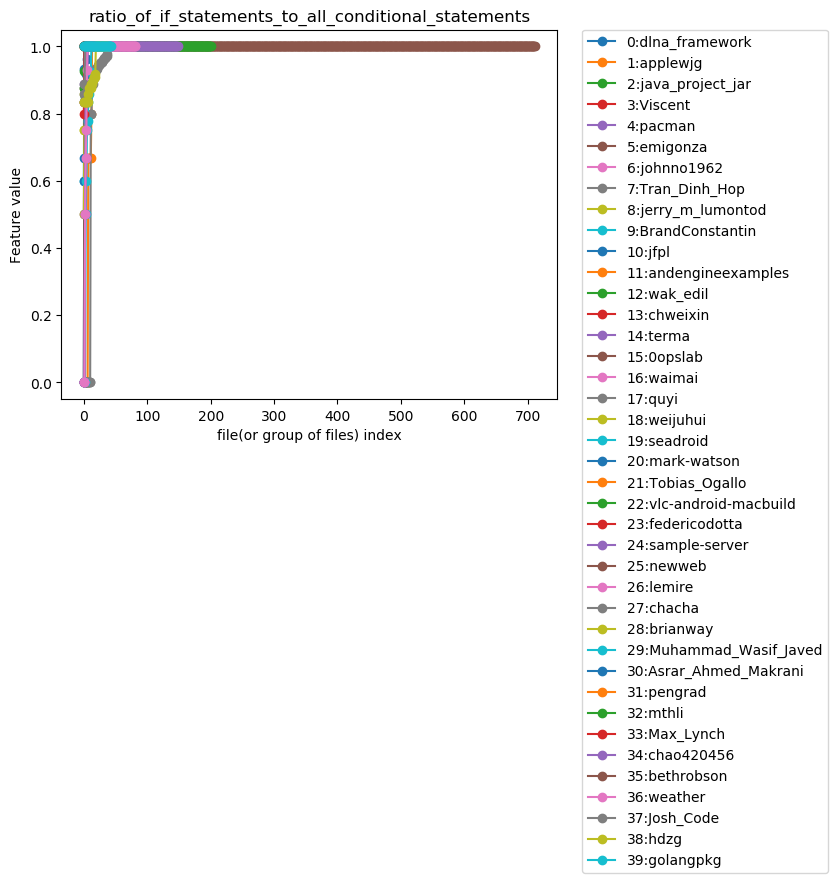
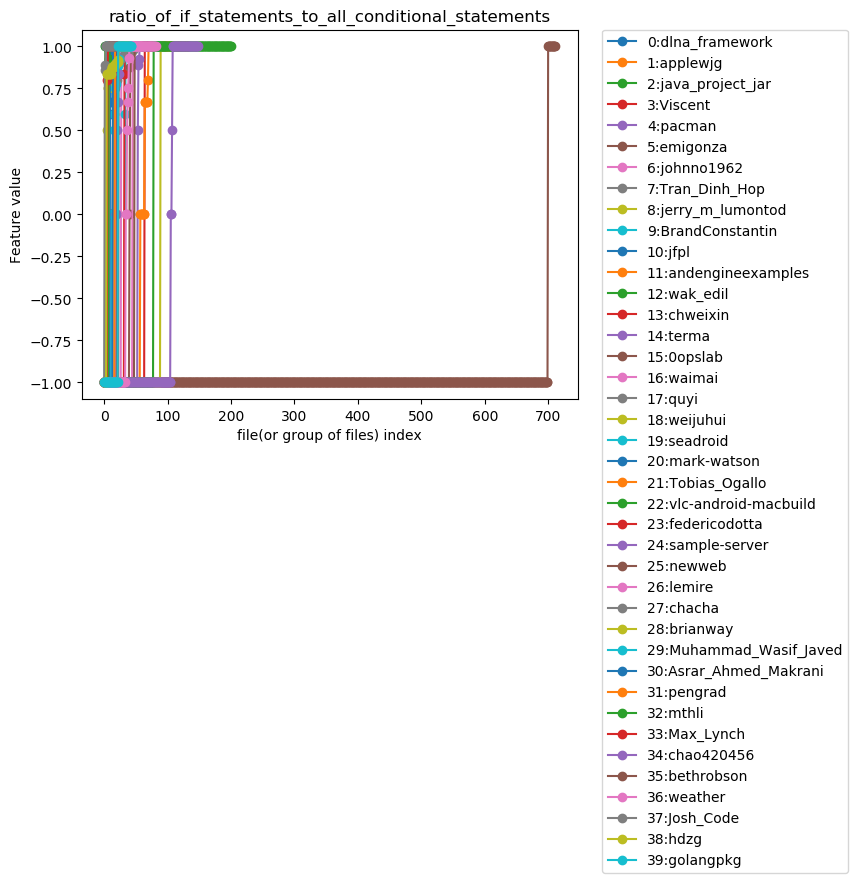
a / 0 = mean, mean only for train is 72%.

Changed region(s): [[0.0, 0.0, 0.963, 1.0]]

diff --git a/psob_authorship/experiment/early_stopping.py b/psob_authorship/experiment/early_stopping.py
@@ -1,4 +1,6 @@
+import datetime
 import logging
+import os
 from typing import Tuple, List
 
 import torch
@@ -10,38 +12,51 @@ from psob_authorship.features.PsobDataset import PsobDataset
 from psob_authorship.features.utils import configure_logger_by_default
 from psob_authorship.model.Model import Model
 
-LABELS_FEARURES_COMMON_NAME = "../calculated_features/without_5"
-INPUT_FEATURES = torch.load(LABELS_FEARURES_COMMON_NAME + "_features.tr")
-INPUT_LABELS = torch.load(LABELS_FEARURES_COMMON_NAME + "_labels.tr")
-EPOCHS = 5000
-BATCH_SIZE = 32
+CONFIG = {
+    'experiment_name': os.path.basename(__file__).split('.')[0],
+    'experiment_notes': "change: a / 0 = 1 with 700 early stopping rounds",
+    'number_of_authors': 40,
+    'labels_features_common_name': "../calculated_features/extracted_for_each_file",
+    'metrics': [0, 1, 2, 3, 4, 5, 6, 7, 8, 9, 10, 11, 12, 13, 14, 15, 16, 17, 18],
+    'epochs': 5000,
+    'batch_size': 32,
+    'lr': 0.01,
+    'cv': StratifiedKFold(n_splits=10, random_state=0, shuffle=True),
+    'scoring': "accuracy",
+    'criterion': nn.CrossEntropyLoss,
+    'optimizer': optim.SGD,
+    'momentum': 0.9,
+    'shuffle': True,
+    'timestamp': datetime.datetime.now()
+}
+INPUT_FEATURES = torch.load(CONFIG['labels_features_common_name'] + "_features.tr").numpy()
+INPUT_LABELS = torch.load(CONFIG['labels_features_common_name'] + "_labels.tr").numpy()
 
 
 def get_test_accuracy_by_epoch() -> Tuple[List[int], List[float], List[int]]:
     logger = logging.getLogger('early_stopping')
     configure_logger_by_default(logger)
     logger.info("START get_test_accuracy_by_epoch")
-    skf = StratifiedKFold(n_splits=10, shuffle=True, random_state=0)
-    train_index, test_index = next(skf.split(INPUT_FEATURES, INPUT_LABELS))
+    train_index, test_index = next(CONFIG['cv'].split(INPUT_FEATURES, INPUT_LABELS))
 
     model = Model(INPUT_FEATURES.shape[1])
-    criterion = nn.CrossEntropyLoss()
-    optimizer = optim.SGD(model.parameters(), lr=0.1, momentum=0.9)
+    criterion = CONFIG['criterion']
+    optimizer = CONFIG['optimizer'](model.parameters(), lr=CONFIG['lr'], momentum=CONFIG['momentum'])
     train_features, train_labels = INPUT_FEATURES[train_index], INPUT_LABELS[train_index]
     test_features, test_labels = INPUT_FEATURES[test_index], INPUT_LABELS[test_index]
     trainloader = torch.utils.data.DataLoader(
         PsobDataset(train_features, train_labels),
-        batch_size=BATCH_SIZE, shuffle=True, num_workers=2
+        batch_size=CONFIG['batch_size'], shuffle=CONFIG['shuffle'], num_workers=2
     )
     testloader = torch.utils.data.DataLoader(
         PsobDataset(test_features, test_labels),
-        batch_size=BATCH_SIZE, shuffle=False, num_workers=2
+        batch_size=CONFIG['batch_size'], shuffle=CONFIG['shuffle'], num_workers=2
     )
     accuracies = []
     best_accuracy = -1
     durations = []
     current_duration = 0
-    for epoch in tqdm(range(EPOCHS)):
+    for epoch in tqdm(range(CONFIG['epochs'])):
         for i, data in enumerate(trainloader, 0):
             inputs, labels = data
             optimizer.zero_grad()
@@ -71,7 +86,7 @@ def get_test_accuracy_by_epoch() -> Tuple[List[int], List[float], List[int]]:
     if current_duration != 0:
         durations.append(current_duration)
     logger.info("END get_test_accuracy_by_epoch")
-    return [i for i in range(EPOCHS)], accuracies, durations
+    return [i for i in range(CONFIG['epochs'])], accuracies, durations
 
 
 def draw_test_accuracy_by_epoch(epochs, accuracies):
@@ -86,7 +101,8 @@ def conduct_early_stopping_experiment():
     epochs, accuracies, durations = get_test_accuracy_by_epoch()
     draw_test_accuracy_by_epoch(epochs, accuracies)
     coordinates = list(zip(epochs, accuracies))
-    with open("../experiment_result/early_stopping_plots_data", 'w') as f:
+    filepath = "../experiment_result/early_stopping_plots_data"
+    with open(filepath, 'w') as f:
         f.write("Durations of not growing accuracy: " + str(durations) + "\n")
         f.write("Sorted durations of not growing accuracy: " + str(list(reversed(sorted(durations)))) + "\n")
         for item in coordinates:

diff --git a/psob_authorship/features/java/MetricsCalculator.py b/psob_authorship/features/java/MetricsCalculator.py
@@ -6,7 +6,7 @@ import torch
 from psob_authorship.features.java.ast_metrics.AstMetricsCalculator import AstMetricsCalculator
 from psob_authorship.features.java.character_metrics.CharacterMetricsCalculator import CharacterMetricsCalculator
 from psob_authorship.features.java.line_metrics.LineMetricsCalculator import LineMetricsCalculator
-from psob_authorship.features.utils import configure_logger_by_default
+from psob_authorship.features.utils import configure_logger_by_default, ZERO_DIVISION_RETURN
 
 
 class MetricsCalculator:
@@ -34,14 +34,32 @@ class MetricsCalculator:
         ))
 
     @staticmethod
-    def transform_metrics_default_values_to_mean(default_value, features: torch.Tensor):
-        default_value_indices = features == default_value
-        features[default_value_indices] = 0
-        mean_values = torch.mean(features, dim=0)
+    def set_mean_to_indices(default_value_indices, mean_values: torch.Tensor, features: torch.Tensor):
         for row in range(features.shape[0]):
             for col in range(features.shape[1]):
                 if default_value_indices[row][col] == 1:
                     features[row][col] = mean_values[col]
+
+    @staticmethod
+    def set_mean_to_zero_division(mean_values: torch.Tensor, features: torch.Tensor):
+        default_value_indices = features == ZERO_DIVISION_RETURN
+        MetricsCalculator.set_mean_to_indices(default_value_indices, mean_values, features)
+
+    @staticmethod
+    def transform_metrics_default_values_to_mean(default_value, features: torch.Tensor) -> torch.Tensor:
+        default_value_indices = features == default_value
+        features[default_value_indices] = 0
+        mean_values = torch.mean(features, dim=0)
+        MetricsCalculator.set_mean_to_indices(default_value_indices, mean_values, features)
+        return mean_values
+
+    @staticmethod
+    def transform_metrics_zero_division_to_mean(features: torch.Tensor) -> torch.Tensor:
+        return MetricsCalculator.transform_metrics_default_values_to_mean(ZERO_DIVISION_RETURN, features)
+
+    @staticmethod
+    def transform_metrics_zero_division_to_new_value(new_value, features: torch.Tensor):
+        MetricsCalculator.transform_metrics_default_values_to_new_value(ZERO_DIVISION_RETURN, new_value, features)
 
     @staticmethod
     def transform_metrics_default_values_to_new_value(default_value, new_value, features: torch.Tensor):
@@ -49,9 +67,9 @@ class MetricsCalculator:
         features[default_value_indices] = new_value
 
     @staticmethod
-    def transform_metrics_default_values_to_zero(default_value, features: torch.Tensor):
-        MetricsCalculator.transform_metrics_default_values_to_new_value(default_value, 0, features)
+    def transform_metrics_zero_division_to_zero(features: torch.Tensor):
+        MetricsCalculator.transform_metrics_zero_division_to_new_value(0, features)
 
     @staticmethod
-    def transform_metrics_default_values_to_one(default_value, features: torch.Tensor):
-        MetricsCalculator.transform_metrics_default_values_to_new_value(default_value, 1, features)
+    def transform_metrics_zero_division_to_one(features: torch.Tensor):
+        MetricsCalculator.transform_metrics_zero_division_to_new_value(1, features)

diff --git a/psob_authorship/experiment/one_split_fit.py b/psob_authorship/experiment/one_split_fit.py
@@ -8,12 +8,13 @@ from sklearn.model_selection import StratifiedKFold
 from torch import optim, nn
 
 from psob_authorship.features.PsobDataset import PsobDataset
+from psob_authorship.features.java.MetricsCalculator import MetricsCalculator
 from psob_authorship.features.utils import configure_logger_by_default
 from psob_authorship.model.Model import Model
 
 CONFIG = {
     'experiment_name': os.path.basename(__file__).split('.')[0],
-    'experiment_notes': "change: a / 0 = 1 with 700 early stopping rounds",
+    'experiment_notes': "change: a / 0 = mean, but mean is calculated only for train",
     'number_of_authors': 40,
     'labels_features_common_name': "../calculated_features/extracted_for_each_file",
     'metrics': [0, 1, 2, 3, 4, 5, 6, 7, 8, 9, 10, 11, 12, 13, 14, 15, 16, 17, 18],
@@ -48,6 +49,8 @@ def fit_model(file_to_print):
     optimizer = CONFIG['optimizer'](model.parameters(), lr=CONFIG['lr'], momentum=CONFIG['momentum'])
     train_features, train_labels = INPUT_FEATURES[train_index], INPUT_LABELS[train_index]
     test_features, test_labels = INPUT_FEATURES[test_index], INPUT_LABELS[test_index]
+    mean_values = MetricsCalculator.transform_metrics_zero_division_to_mean(torch.from_numpy(train_features))
+    MetricsCalculator.set_mean_to_zero_division(mean_values, torch.from_numpy(test_features))
     trainloader = torch.utils.data.DataLoader(
         PsobDataset(train_features, train_labels, CONFIG['metrics']),
         batch_size=CONFIG['batch_size'], shuffle=CONFIG['shuffle'], num_workers=2

diff --git a/psob_authorship/features/extract_features.py b/psob_authorship/features/extract_features.py
@@ -64,23 +64,18 @@ def extract_for_each_file():
 def extract_with_transformation(fileprefix, transformation):
     filepath = os.path.join(CALCULATED_FEATURES_ROOT, fileprefix)
     features, labels, feature_names, author_names = get_labeled_data()
-    transformation(ZERO_DIVISION_RETURN, features)
+    transformation(features)
     save_extracted_features(filepath, features, labels, feature_names, author_names)
-
-
-def extract_with_mean_default_values_for_each_file():
-    extract_with_transformation("extracted_for_each_file",
-                                MetricsCalculator.transform_metrics_default_values_to_mean)
 
 
 def extract_with_zero_default_values_for_each_file():
     extract_with_transformation("extracted_for_each_file",
-                                MetricsCalculator.transform_metrics_default_values_to_zero)
+                                MetricsCalculator.transform_metrics_zero_division_to_zero)
 
 
 def extract_with_one_default_values_for_each_file():
     extract_with_transformation("extracted_for_each_file",
-                                MetricsCalculator.transform_metrics_default_values_to_one)
+                                MetricsCalculator.transform_metrics_zero_division_to_one)
 
 
 def save_extracted_features(filepath: str, features: torch.Tensor, labels: torch.Tensor,
@@ -97,4 +92,4 @@ def save_extracted_features(filepath: str, features: torch.Tensor, labels: torch
 
 
 if __name__ == '__main__':
-    extract_with_one_default_values_for_each_file()
+    extract_for_each_file()
